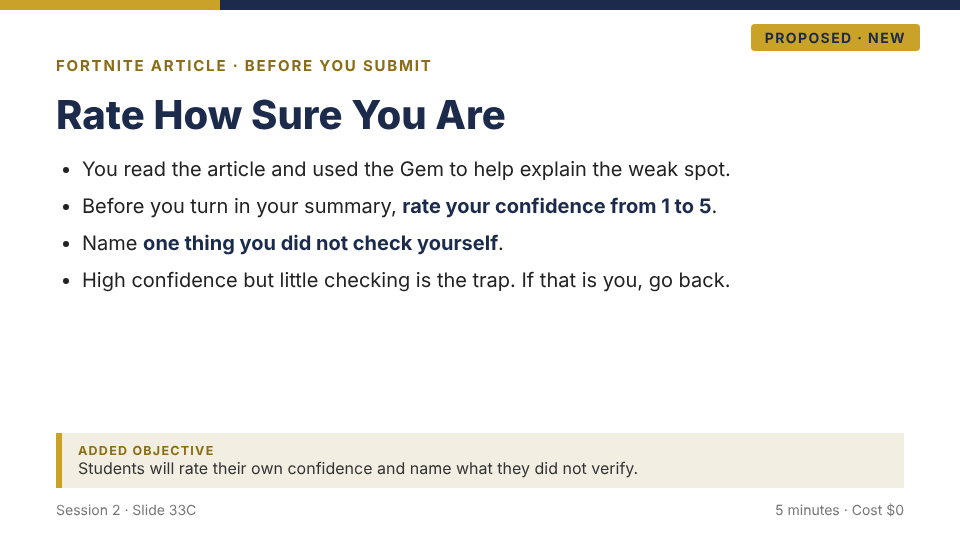
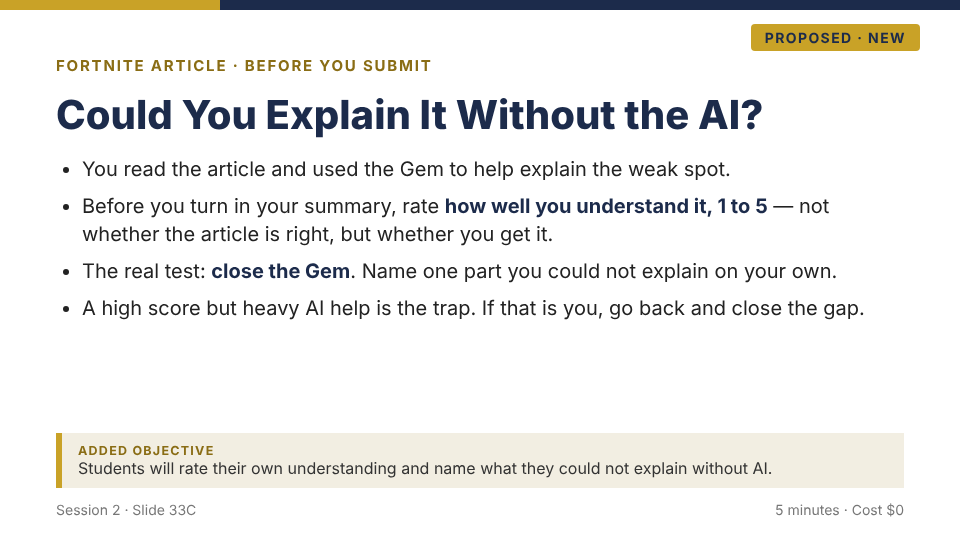
Clarify tab 7: students rate confidence in their own understanding (could they explain without the AI), not whether the article is accurate
Claude-Session: https://claude.ai/code/session_01PahWYG89MCvDn3L4C5MpgZ

Changed region(s): [[0.0625, 0.3556, 0.9062, 0.5926], [0.0625, 0.1778, 0.8125, 0.2667], [0.2812, 0.8593, 0.8125, 0.8889]]

diff --git a/index.html b/index.html
@@ -346,14 +346,14 @@ footer{margin-top:44px;border-top:1px solid var(--line);padding-top:16px;font-si
       </div>
       <div class="col">
         <div class="collabel after">PROPOSED · NEW SLIDE 33C</div>
-        <img class="shot new" src="img/after-33c.png" alt="Proposed new slide 33C: Rate How Sure You Are. Before turning in the summary, rate confidence from 1 to 5, name one thing not checked, and go back if confidence is high but checking was low.">
-        <p class="cap">Speaker note: high confidence plus low checking is the flag. The self-rating makes the student notice it himself.</p>
+        <img class="shot new" src="img/after-33c.png" alt="Proposed new slide 33C: Could You Explain It Without the AI? Before turning in the summary, rate how well you understand it from 1 to 5 (not whether the article is right), then close the Gem and name one part you could not explain on your own.">
+        <p class="cap">Speaker note: the rating is about his own understanding, not whether the article is accurate. The test is whether he can explain it with the Gem closed.</p>
       </div>
     </div>
     <div class="meta" style="margin-top:12px">
       <span class="chip gold">Touchpoint: AT submission</span><span class="chip">Tool: FK Gem</span><span class="chip">Cost: $0</span>
     </div>
-    <div class="lo"><b>ADDED LEARNING OBJECTIVE</b>Students will rate their own confidence and name what they did not verify.</div>
+    <div class="lo"><b>ADDED LEARNING OBJECTIVE</b>Students will rate their own understanding and name what they could not explain without AI.</div>
   </div>
 
   <p class="why">Why these seven work: each one adds AI at a spot where the deck already asks for practice, exploration, or a check, so the AI step feels like the lesson continuing, not a new lesson starting. Across all seven, the total new material is six new slides and one modified slide.</p>
